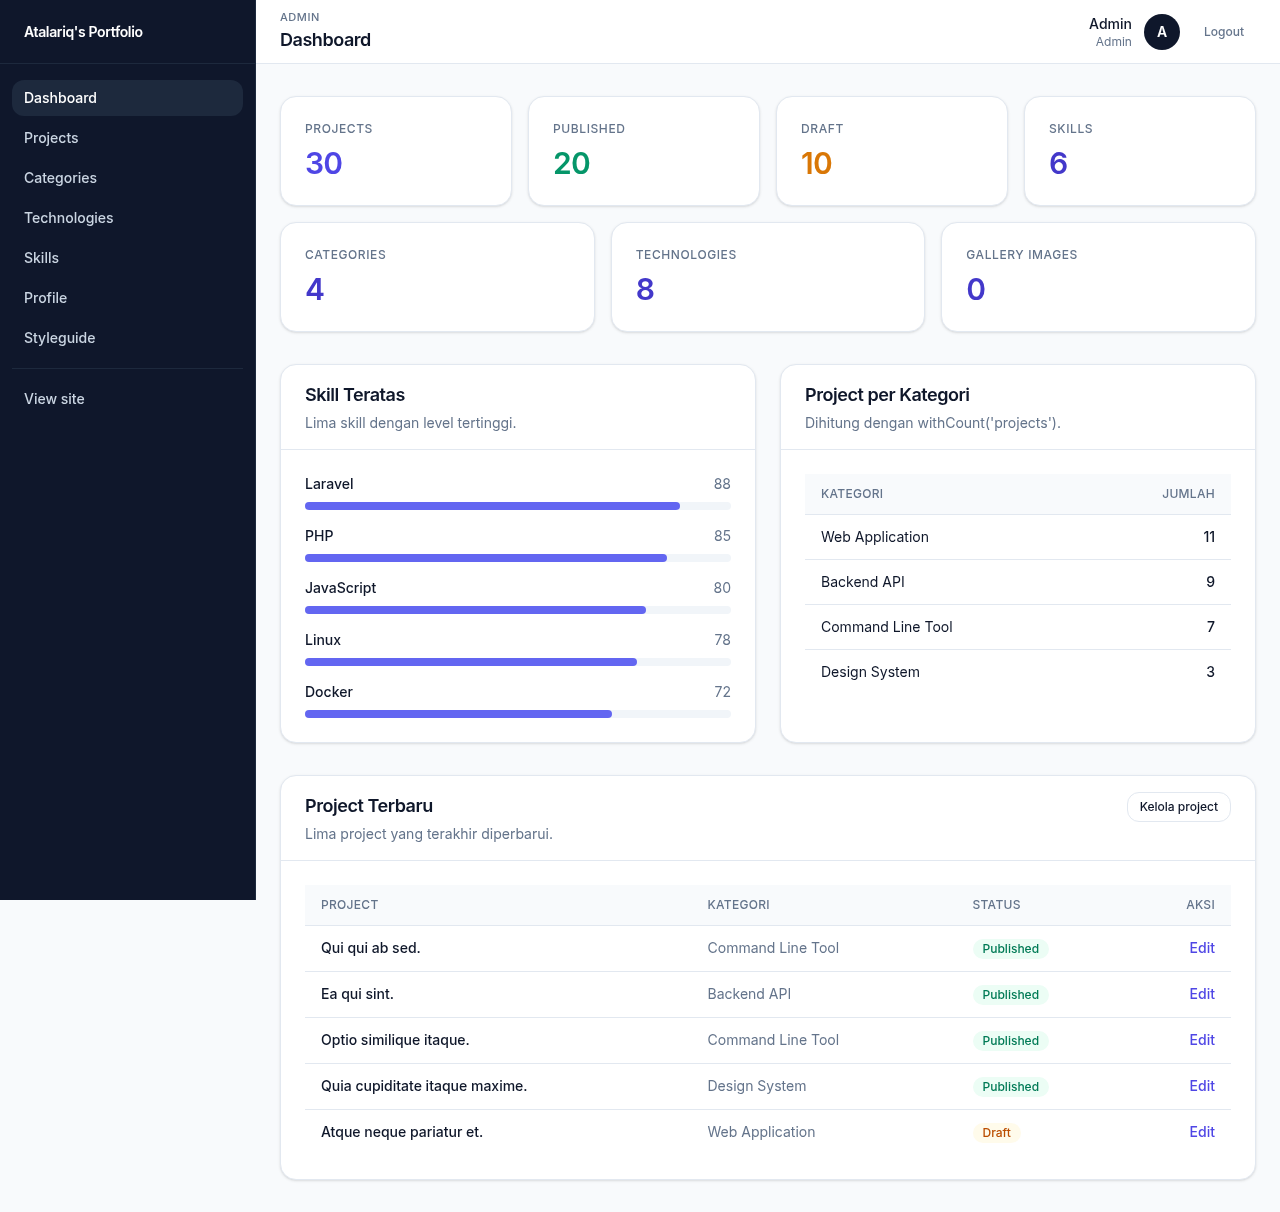
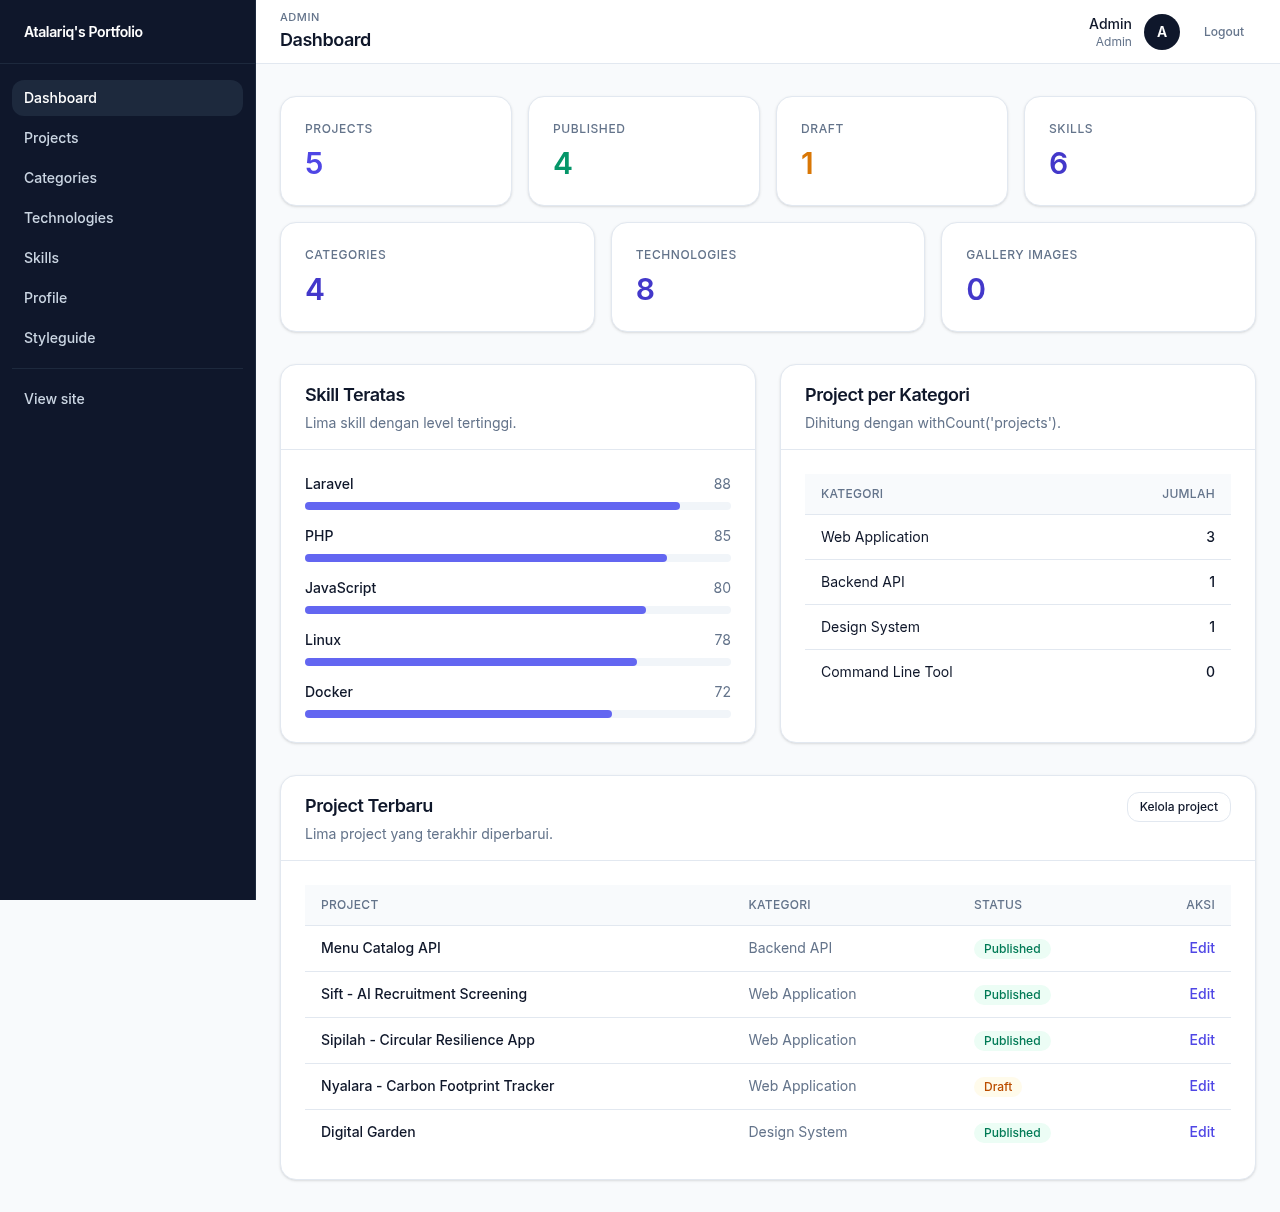
docs(ppwl): sesuaikan laporan dengan seed project kurasi
Seeder kini menghasilkan 5 project kurasi, bukan 30 project acak,
sehingga tabel hasil di NOTES.md p9 dan p10 serta screenshot admin
diperbarui. Bagian p10 juga menyebut komposisi empat project published
dan satu project draft.

diff --git a/semester-3/ppwl-praktikum-pemrograman-web-lanjut/p9-authentication/NOTES.md b/semester-3/ppwl-praktikum-pemrograman-web-lanjut/p9-authentication/NOTES.md
@@ -57,7 +57,7 @@
 |---|---|---|---|
 | 2026-11-05 | `composer require laravel/breeze --dev` | Breeze 2.4.2 terpasang | `.runs/p9/composer-breeze.txt` |
 | 2026-11-05 | `php artisan breeze:install blade --no-interaction` | Scaffold Breeze + build aset | `.runs/p9/breeze-install.txt` |
-| 2026-11-05 | `php artisan migrate:fresh --seed` | 2 user, 30 project | `.runs/p9/migrate-seed.txt` |
+| 2026-11-05 | `php artisan migrate:fresh --seed` | 2 user, 5 project | `.runs/p9/migrate-seed.txt` |
 | 2026-11-05 | `composer test` | 57 passed (183 assertions) | `.runs/p9/tests.txt` |
 | 2026-11-05 | `php artisan route:list --path=post -v` | 9 route dengan `auth`, `admin` | laporan lampiran |
 | 2026-11-05 | Login admin | Dialihkan ke `/post/projects` | `page-login.png` |
@@ -74,9 +74,9 @@
 |---|---|---|---|
 | 1† | Build | 2 | Compile bersih; warning font `menlo` dari paket zebraw |
 | 2† | Struktur | 2 | Cover, ToC/LoF/LoT, Tujuan, Dasar Teori, Hasil, Kesimpulan, Lampiran, Daftar Pustaka |
-| 3 | Kontinuitas | 2 | Paragraf lanjutan P8 + commit `7cf1456` |
+| 3 | Kontinuitas | 2 | Paragraf lanjutan P8 + commit `d78b48b` |
 | 4† | Kelengkapan langkah | 2 | Semua command Breeze, migrasi, seeder, middleware, route, test ditulis |
-| 5† | Kode–repo | 2 | Kode dari commit `7cf1456`; path pada setiap blok |
+| 5† | Kode–repo | 2 | Kode dari commit `d78b48b`; path pada setiap blok |
 | 6 | Gambar | 2 | Enam screenshot ulang, PNG, caption lengkap |
 | 7† | Sitasi | 2 | `module_p9`, `repo_p9`, Laravel, OWASP |
 | 8† | Modul vs realita | 2 | Breeze, Tailwind 4, `/post`, role, profile dijelaskan |

diff --git a/semester-3/ppwl-praktikum-pemrograman-web-lanjut/p10-dashboard-upload-gallery/NOTES.md b/semester-3/ppwl-praktikum-pemrograman-web-lanjut/p10-dashboard-upload-gallery/NOTES.md
@@ -71,7 +71,7 @@
 | Date | Command/scenario | Concise result | Log (outside repository) |
 |---|---|---|---|
 | 2026-11-05 | `php artisan storage:link` | `public/storage -> storage/app/public` | `.runs/p10/` |
-| 2026-11-05 | `php artisan migrate:fresh --seed` | 30 project, 4 kategori, 8 teknologi, 6 skill | `.runs/p10/` |
+| 2026-11-05 | `php artisan migrate:fresh --seed` | 5 project, 4 kategori, 8 teknologi, 6 skill | `.runs/p10/` |
 | 2026-11-05 | `composer test` | 57 passed (183 assertions) | `.runs/p10/tests-final.txt` |
 | 2026-11-05 | `npm run build` | Vite build sukses | `.runs/p10/` |
 | 2026-11-05 | `php artisan route:list --path=post` | 31 route admin | `.runs/p10/` |
@@ -96,7 +96,7 @@
 | 2† | Struktur | 2 | Cover, ToC/LoF/LoT, Tujuan, Dasar Teori, Hasil, Kesimpulan, Lampiran, Daftar Pustaka; pagebreak hanya di batas bagian |
 | 3 | Kontinuitas | 2 | Satu paragraf kelanjutan P9 + commit `cc227ab`; tanpa tabel lingkungan/discovery |
 | 4† | Kelengkapan langkah | 2 | Semua command `make:*`, migrasi, seeder, `storage:link`, `migrate`, `test`, `build` ditulis |
-| 5† | Kode–repo | 2 | Kode dari commit `7cf1456`; blok kode diberi path |
+| 5† | Kode–repo | 2 | Kode dari commit `d78b48b`; blok kode diberi path |
 | 6 | Gambar | 2 | Enam screenshot ulang, PNG, caption lengkap; tanpa placeholder |
 | 7† | Sitasi | 2 | `module_p10`, `repo_p10`, dokumentasi Laravel, OWASP |
 | 8† | Modul vs realita | 2 | `/post`, `Project`, kategori/teknologi, experience/education dijelaskan |
